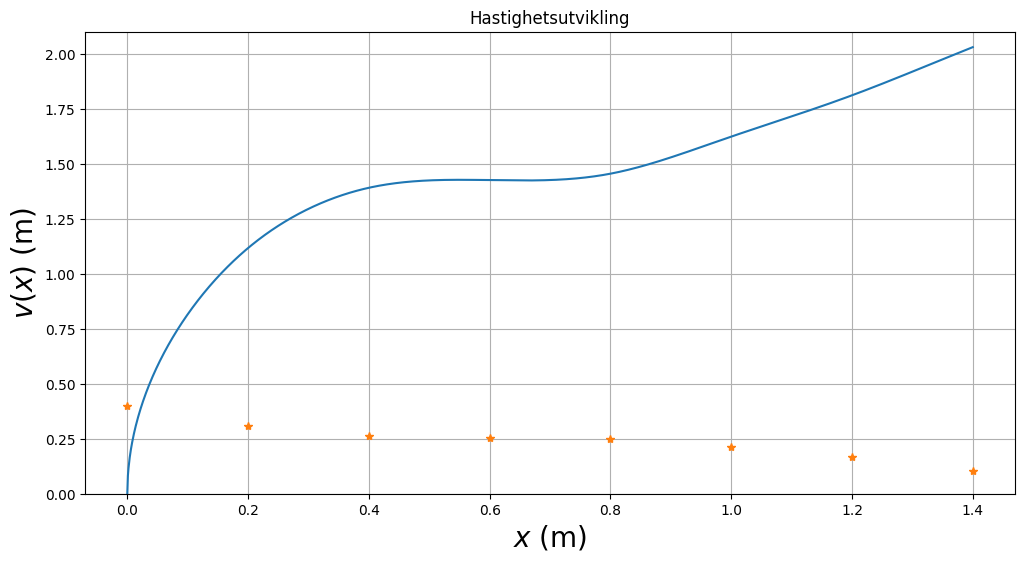
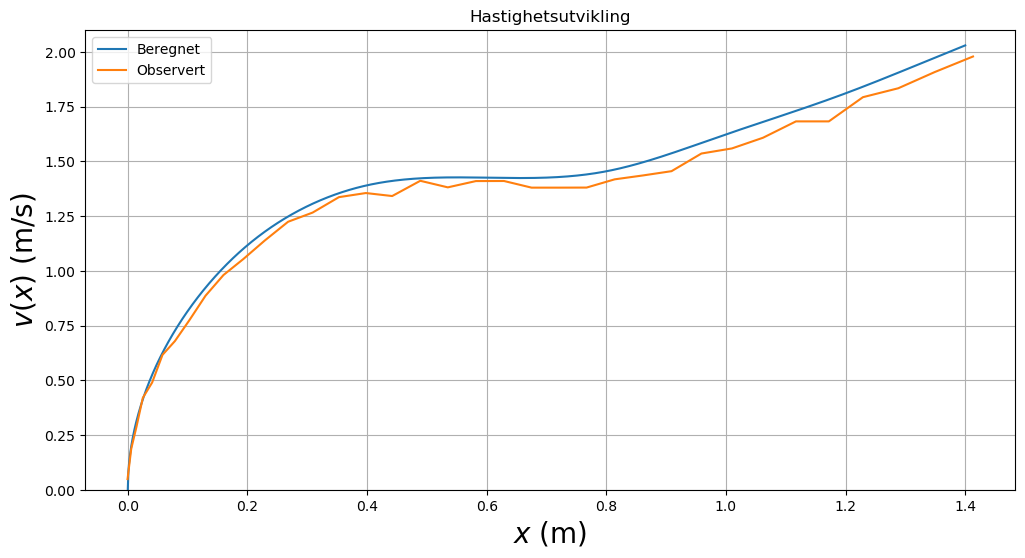
mye

diff --git a/cubicspline.py b/cubicspline.py
@@ -20,6 +20,7 @@ import matplotlib.pyplot as plt
 import numpy as np
 import Beregning_av_hastigheter as funk
 from scipy.interpolate import CubicSpline
+import math
 
 #Horisontal avstand mellom festepunktene er 0.200 m
 h = 0.200
@@ -52,14 +53,101 @@ y = cs(x)       #y=tabell med 1401 verdier for y(x)
 dy = cs(x,1)    #dy=tabell med 1401 verdier for y'(x)
 d2y = cs(x,2)   #d2y=tabell med 1401 verdier for y''(x)
 
+
+######################################################################
+
+# Helning
+
+def helning(dx, dy):
+    
+    Theta = np.array([])
+    
+    for i in range(1400):
+        
+        #theta = math.asin(dy[i]/dx)
+        #Theta = np.append(Theta, theta)
+        
+    
+    print("Helningsutvikling")
+    print(Theta)
+    
+    return Theta
+
+helning(dx, dy)
+
+###################################################################
+
+# Beregning av krumning
+
+def krumning(d2y, dy):
+    """[summary]
+
+    Args:
+        d2y ([type]): [description]
+        dy ([type]): [description]
+
+    Returns:
+        array: Krumningen
+    """
+    
+    k = (d2y)/(1+dy**2)**(3/2)
+    
+    return k
+  
+print("Krumning: ")  
+k = krumning(d2y, dy)
+print(k)
+funk.plotBaneForm(x, k, "Krumning", "x(m) (m)", "k (1/m)", "Krumning", -2, 2)
+
+
+####################################################################
+
+# Fart over tid 
+
+
+# Beregnet Hastighetsutvikling
+v = funk.BeregnHastighet(y)
+print("Teoretisk beregnet slutthastighet")
+print(v[-1])
+
+
+def v_x(v, theta):
+    return "Hei"
+
+def fartOverTid():
+
+    for i in range(1400):
+        
+        res = (2*dx[i])/(v_x[i-1]+v_x[i])
+
+
+
+
+
+
+##########################################################################
+
+# Henter ut Observert data
+t_obs, x_obs, y_obs = funk.HentDataFraFil('./Data/txy_1.txt')
+    
+
+
+#########################################################################
+
 #Plotteeksempel: Banens form y(x)
+
+
 baneform = plt.figure('y(x)',figsize=(12,6))
-plt.plot(x,y,xfast,yfast,'*')
+plt.plot(x,y, label="Beregnet")
+plt.plot(xfast,yfast,'*', label="Festepunkter")
+plt.plot(x_obs, y_obs, label="Observert")
 plt.title('Banens form')
 plt.xlabel('$x$ (m)',fontsize=20)
 plt.ylabel('$y(x)$ (m)',fontsize=20)
 plt.ylim(0.10,0.40)
+plt.legend()
 plt.grid()
+
 
 #Figurer kan lagres i det formatet du foretrekker:
 #baneform.savefig("baneform.pdf", bbox_inches='tight')
@@ -67,16 +155,59 @@ plt.grid()
 #baneform.savefig("baneform.eps", bbox_inches='tight')
 
 
-#Hastighetsutvikling
-v = funk.BeregnHastighet(y)
+####################################################################
 
-baneform = plt.figure('v(x)',figsize=(12,6))
-plt.plot(x,v,xfast,yfast,'*')
+# Hastighetsutvikling uten festepunkter i plot
+
+
+
+
+# Observert Hastighetsutvikling
+#v_obs = BeregnHastighet(y_obs) 
+v_obs = funk.observerteHastigheter(x_obs, y_obs)
+print("Observerte hastigheter: ")
+print(v_obs)
+
+beregnethastighet = plt.figure('v(x)',figsize=(12,6))
+plt.plot(x,v, label="Beregnet")
+plt.plot(x_obs[1:],v_obs, label="Observert")
+#plt.plot(xfast,yfast,'*', label="Festepunkter")
 plt.title('Hastighetsutvikling')
 plt.xlabel('$x$ (m)',fontsize=20)
-plt.ylabel('$v(x)$ (m)',fontsize=20)
+plt.ylabel('$v(x)$ (m/s)',fontsize=20)
 plt.ylim(0,2.1)
 plt.grid()
-plt.show()
+plt.legend()
+#plt.show()
 
-#baneform.savefig("Hastighetsutvikling.png", bbox_inches='tight')
+
+
+#######################################################################
+
+
+# Hastighetsutvikling med festpunkter i plot
+
+fig, ax1 = plt.subplots()
+color="tab:red"
+ax1.set_xlabel("$x$ (m)", fontsize=20)
+ax1.set_ylabel('$y(x)$ (m)', fontsize=20, color=color)
+ax1.plot(xfast, yfast, '*', label="Festepunkter")
+ax1.tick_params(axis='y', labelcolor=color)
+
+ax2 = ax1.twinx()
+
+color="tab:blue"
+ax2.set_ylabel("$v(x)$ (m/s)", fontsize=20, color=color)
+ax2.plot(x,v, label="Beregnet", color=color)
+ax2.plot(x_obs[1:],v_obs, label="Observert", color="orange")
+ax2.tick_params(axis='y', labelcolor=color)
+
+plt.title("Hastighetsutvikling")
+plt.legend()
+plt.grid()
+fig.tight_layout()
+#plt.show()
+
+#fig.savefig("HastighetsutviklingDualAxis.png", bbox_inches="tight")
+
+#beregnethastighet.savefig("Hastighetsutvikling.png", bbox_inches='tight')

diff --git a/Beregning_av_hastigheter.py b/Beregning_av_hastigheter.py
@@ -1,5 +1,7 @@
 import matplotlib.pyplot as plt
 import numpy as np
+from numpy.core.defchararray import array
+
 
 def HentDataFraFil(filepath):
     """Leser txt datafil fra tracker.
@@ -36,10 +38,13 @@ def HentDataFraFil(filepath):
         y.append(float("{:.5f}".format(float(l[2]))))
     
     t, x, y = np.array(t), np.array(x), np.array(y)
+    
+    print("Innlasting ferdig")
+    
     return t, x, y
     
 # Plott
-def plotBaneForm(x, y):
+def plotBaneForm(x, y, title, xlabel, ylabel, legendLabel, ylabelMin, ylabelMax):
     """Plotter en scatterplot basert på 2 arrays
 
     Args:
@@ -47,14 +52,18 @@ def plotBaneForm(x, y):
         y (array): tilhørende posisjoner i y retning
     """
     
-    fig, ax = plt.subplots(1,1,figsize=(10,6),constrained_layout=True)
-    ax.scatter(x,y,c='r') #Scatterplot på y(x)
-    plt.title('Banens form med autotracker', fontsize=16)
-    ax.set_xlabel('x (m)', fontsize=14)
-    ax.set_ylabel('y (m)', fontsize=14)
+    baneform = plt.figure('y(x)',figsize=(12,6))
+    plt.plot(x,y)
+    plt.plot(x, y, label=legendLabel)
+    plt.title(title)
+    plt.xlabel(xlabel, fontsize=20)
+    plt.ylabel(ylabel ,fontsize=20)
+    plt.ylim(ylabelMin, ylabelMax)
+    plt.legend()
+    plt.grid()
     plt.show()
 
-def observertHastighet(t, x, y):
+def observertHastighet_old(t, x, y):
     """Beregner observert hastighet ved å se på de to siste posisjonene
 
     Args:
@@ -66,10 +75,33 @@ def observertHastighet(t, x, y):
         float: farten basert på siste to målte pkt
     """
     
-    v_e = np.sqrt(abs(((y[-2] - y[-1])**2 + (x[-2] - x[-1])**2) / (t[-2] - t[-1])))
+    v_e = np.sqrt(abs(((y[-2] - y[-1])**2 + abs(x[-2] - x[-1])**2) / abs(t[-2] - t[-1])))
     
     return v_e
     
+def observerteHastigheter(x, y):
+    """Beregner observert hastighet ved å fortløpende se på 2 tracker-posisjoner
+
+    Args:
+        x (np array): x posisjoner
+        y (np array): y posisjoner
+
+    Returns:
+        Array: farten basert på 2 målepunkter av gangen
+    """
+    
+    # Kamera filmer ved 30fps.
+    diffT = 1/30
+    
+    diffX = np.diff(x)
+    diffY = np.diff(y)
+    
+    dist = np.sqrt(diffX**2 + diffY**2)
+    
+    velocity = dist/diffT
+    
+    return velocity
+
 def BeregnHastighet(y):
     """
     Beregner hastigheten
@@ -95,25 +127,61 @@ def BeregnHastighet(y):
     
     return v
 
-def Gjennomsnitt(v):
+def getGjennomsnitt(v):
     return round(np.average(v), 3)
 
-def StandardAvvik(v):
+def getStandardAvvik(v):
     return round(np.std(v), 4)
 
-def StandardFeil(v):
-    return round(StandardAvvik(v)/np.sqrt(len(v)), 5)
+def getStandardFeil(v):
+    return round(getStandardAvvik(v)/np.sqrt(len(v)), 5)
 
 
 
 def main():
+    
+    
+    ###########################
+    
+    
+    # Konstanter
+    xmin = 0.000
+    xmax = 1.401
+    dx = 0.001
+    
+    #Horisontal avstand mellom festepunktene er 0.200 m
+    h = 0.200
+    xfast=np.asarray([0,h,2*h,3*h,4*h,5*h,6*h,7*h])
+    
+    #y-verdiene til de 8 festepunktene
+    yfast = np.asarray([0.399, 0.310, 0.261, 0.254, 0.248, 0.211, 0.165, 0.105])
+    
+    
+    ##########################
+    
+    
     t, x, y = HentDataFraFil('./Data/txy_1.txt')
+    
     #plotBaneForm(x, y)
+    
     v = BeregnHastighet(y)
+    
+    #Plot Observert hastighet
+    observertHastighet = plt.figure('v(x)',figsize=(12,6))
+    plt.plot(x,v,xfast,yfast,'*')
+    plt.title('Banens form')
+    plt.xlabel('$x$ (m)',fontsize=20)
+    plt.ylabel('$v(x)$ (m)',fontsize=20)
+    plt.ylim(0.0,2.1)
+    plt.grid()
+    plt.show()
+    
+    
+    #Printer beregnede gjennomsnittsverdier
     print("v",v)
     print("y0",y)
-    print("Gjennomsnitt", Gjennomsnitt(v))
-    print("StdAvvik", StandardAvvik(v))
-    print("StdFeil", StandardFeil(v))
+    print("Gjennomsnitt", getGjennomsnitt(v))
+    print("StdAvvik", getStandardAvvik(v))
+    print("StdFeil", getStandardFeil(v))
 
 #main()

diff --git a/Gjennomsnitt_slutthastigheter.py b/Gjennomsnitt_slutthastigheter.py
@@ -3,6 +3,7 @@ import Beregning_av_hastigheter as funk
 
 
 result = np.array([])
+result2 = np.array([])
 
 # Henter hastighetene 
 for i in range(10):
@@ -11,15 +12,19 @@ for i in range(10):
     t, x, y = funk.HentDataFraFil(
         './Data/txy_' + str((i+1)) + '.txt')
     
-    
-    v_e = funk.observertHastighet(t, x, y)
+    v = funk.observerteHastigheter(x, y)
+    v_e = funk.observertHastighet_old(t, x, y)
     
     #legger til de to siste hastighetene fra hvert
     # dataset i result arrayen
     result = np.append(result, v_e)
+    result2 = np.append(result2, v[-1])
     
 print(result)
-print("Gjennomsnitt", funk.Gjennomsnitt(result))
-print("StandardAvvik", funk.StandardAvvik(result))
-print("StandardFeil", funk.StandardFeil(result))
+print("Gjennomsnitt", funk.getGjennomsnitt(result))
+print("StandardAvvik", funk.getStandardAvvik(result))
+print("StandardFeil", funk.getStandardFeil(result))
+print("Gjennomsnitt2", funk.getGjennomsnitt(result2))
+print("StandardAvvik2", funk.getStandardAvvik(result2))
+print("StandardFeil2", funk.getStandardFeil(result2))
 
